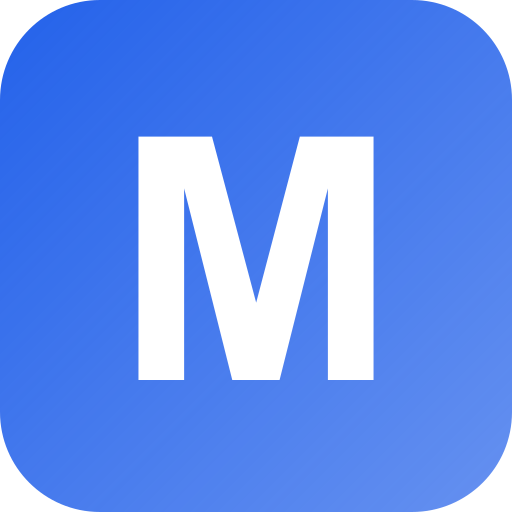
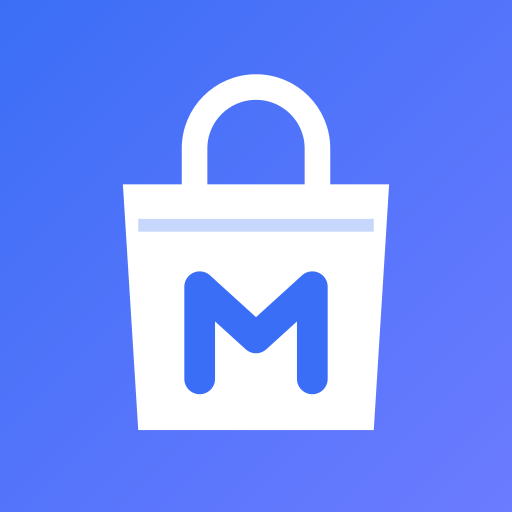
feat: Implementar un diseño adaptativo del panel de control con navegación inferior para dispositivos móviles y un botón de acción flotante

diff --git a/src/components/layout/DashboardLayout.tsx b/src/components/layout/DashboardLayout.tsx
@@ -41,8 +41,11 @@ export default function DashboardLayout({ children }: DashboardLayoutProps) {
         <div data-main-scroll className={`h-[100dvh] overflow-y-auto overscroll-none scroll-smooth ${scrollbarClasses}`}>
           {/* Espaciado: deja sitio para el BottomNav (~72px + safe-area) en móvil */}
           <div 
-            className="px-4 sm:px-5 md:px-6 lg:px-8 min-h-full pb-[104px] lg:pb-8 lg:pt-6"
-            style={{ paddingTop: 'calc(1.5rem + env(safe-area-inset-top))' }}
+            className="px-4 sm:px-5 md:px-6 lg:px-8 min-h-full lg:!pb-8 lg:!pt-6"
+            style={{ 
+              paddingTop: 'calc(1.5rem + env(safe-area-inset-top, 0px))',
+              paddingBottom: 'calc(56px + env(safe-area-inset-bottom, 0px) + 24px)'
+            }}
           >
             {children}
           </div>

diff --git a/src/components/layout/sidebar.tsx b/src/components/layout/sidebar.tsx
@@ -226,12 +226,10 @@ export function Sidebar({ userName, onCollapse, onMobileMenuChange, mobileMenuOp
           {/* Logo and User Info */}
           <div className="px-4 py-4 border-b border-border relative z-10">
             <div className={cn("flex items-center cursor-pointer transition-all duration-300", isCollapsed ? "justify-center pr-4" : "gap-3")} onClick={() => setIsMobileMenuOpen(false)}>
-              <div className="flex items-center justify-center w-10 h-10 rounded-lg bg-gradient-to-br from-primary to-primary/70 text-primary-foreground font-bold text-xl shrink-0 shadow-lg transition-transform hover:scale-110">
-                M
-              </div>
+              <img src="/logo.svg" alt="MarkeApp" className="w-10 h-10 rounded-lg shrink-0 shadow-lg transition-transform hover:scale-110" />
               <div className={cn("flex flex-col overflow-hidden transition-all duration-300 whitespace-nowrap", isCollapsed ? "opacity-0 w-0" : "opacity-100 w-[140px]")}>
                 <h1 className="font-bold text-lg bg-gradient-to-r from-primary to-primary/70 bg-clip-text text-transparent">
-                  MarketApp
+                  MarkeApp
                 </h1>
                 <p className="text-xs text-muted-foreground">Control de Gastos</p>
               </div>

diff --git a/src/components/layout/bottom-nav.tsx b/src/components/layout/bottom-nav.tsx
@@ -36,7 +36,7 @@ export function BottomNav({ onAdd }: BottomNavProps) {
       {/* Floating Action Button (+) - Centrado y elevado por encima del navbar */}
       <div 
         className="lg:hidden fixed left-1/2 -translate-x-1/2 z-[100] pointer-events-auto"
-        style={{ bottom: 'calc(44px + env(safe-area-inset-bottom))' }}
+        style={{ bottom: 'calc(46px + env(safe-area-inset-bottom, 0px))' }}
       >
         <button
           type="button"
@@ -53,7 +53,7 @@ export function BottomNav({ onAdd }: BottomNavProps) {
         style={{ 
           WebkitMaskImage: 'radial-gradient(circle at 50% -2px, transparent 24px, black 25px)',
           maskImage: 'radial-gradient(circle at 50% -2px, transparent 24px, black 25px)',
-          paddingBottom: 'calc(env(safe-area-inset-bottom) * 0.5)'
+          paddingBottom: 'env(safe-area-inset-bottom, 0px)'
         }}
       >
         <div className="mx-auto grid grid-cols-6 h-[56px] max-w-md items-stretch justify-items-center px-1">

diff --git a/src/pages/auth/LoginPage.tsx b/src/pages/auth/LoginPage.tsx
@@ -205,9 +205,7 @@ export default function LoginPage() {
         <div className="absolute inset-0 bg-gradient-to-br from-primary/5 via-transparent to-transparent pointer-events-none" />
         
         <CardHeader className="space-y-3 pb-6 relative z-10">
-          <div className="mx-auto w-[72px] h-[72px] bg-brand-grad-soft rounded-[24px] flex items-center justify-center shadow-hero mb-2 transition-transform hover:scale-110">
-            <span className="text-3xl font-black text-white">M</span>
-          </div>
+          <img src="/logo.svg" alt="MarkeApp" className="mx-auto w-[72px] h-[72px] rounded-[16px] shadow-hero mb-2 transition-transform hover:scale-110" />
           <CardTitle className="text-[26px] font-black text-center text-foreground">
             MarkeApp
           </CardTitle>